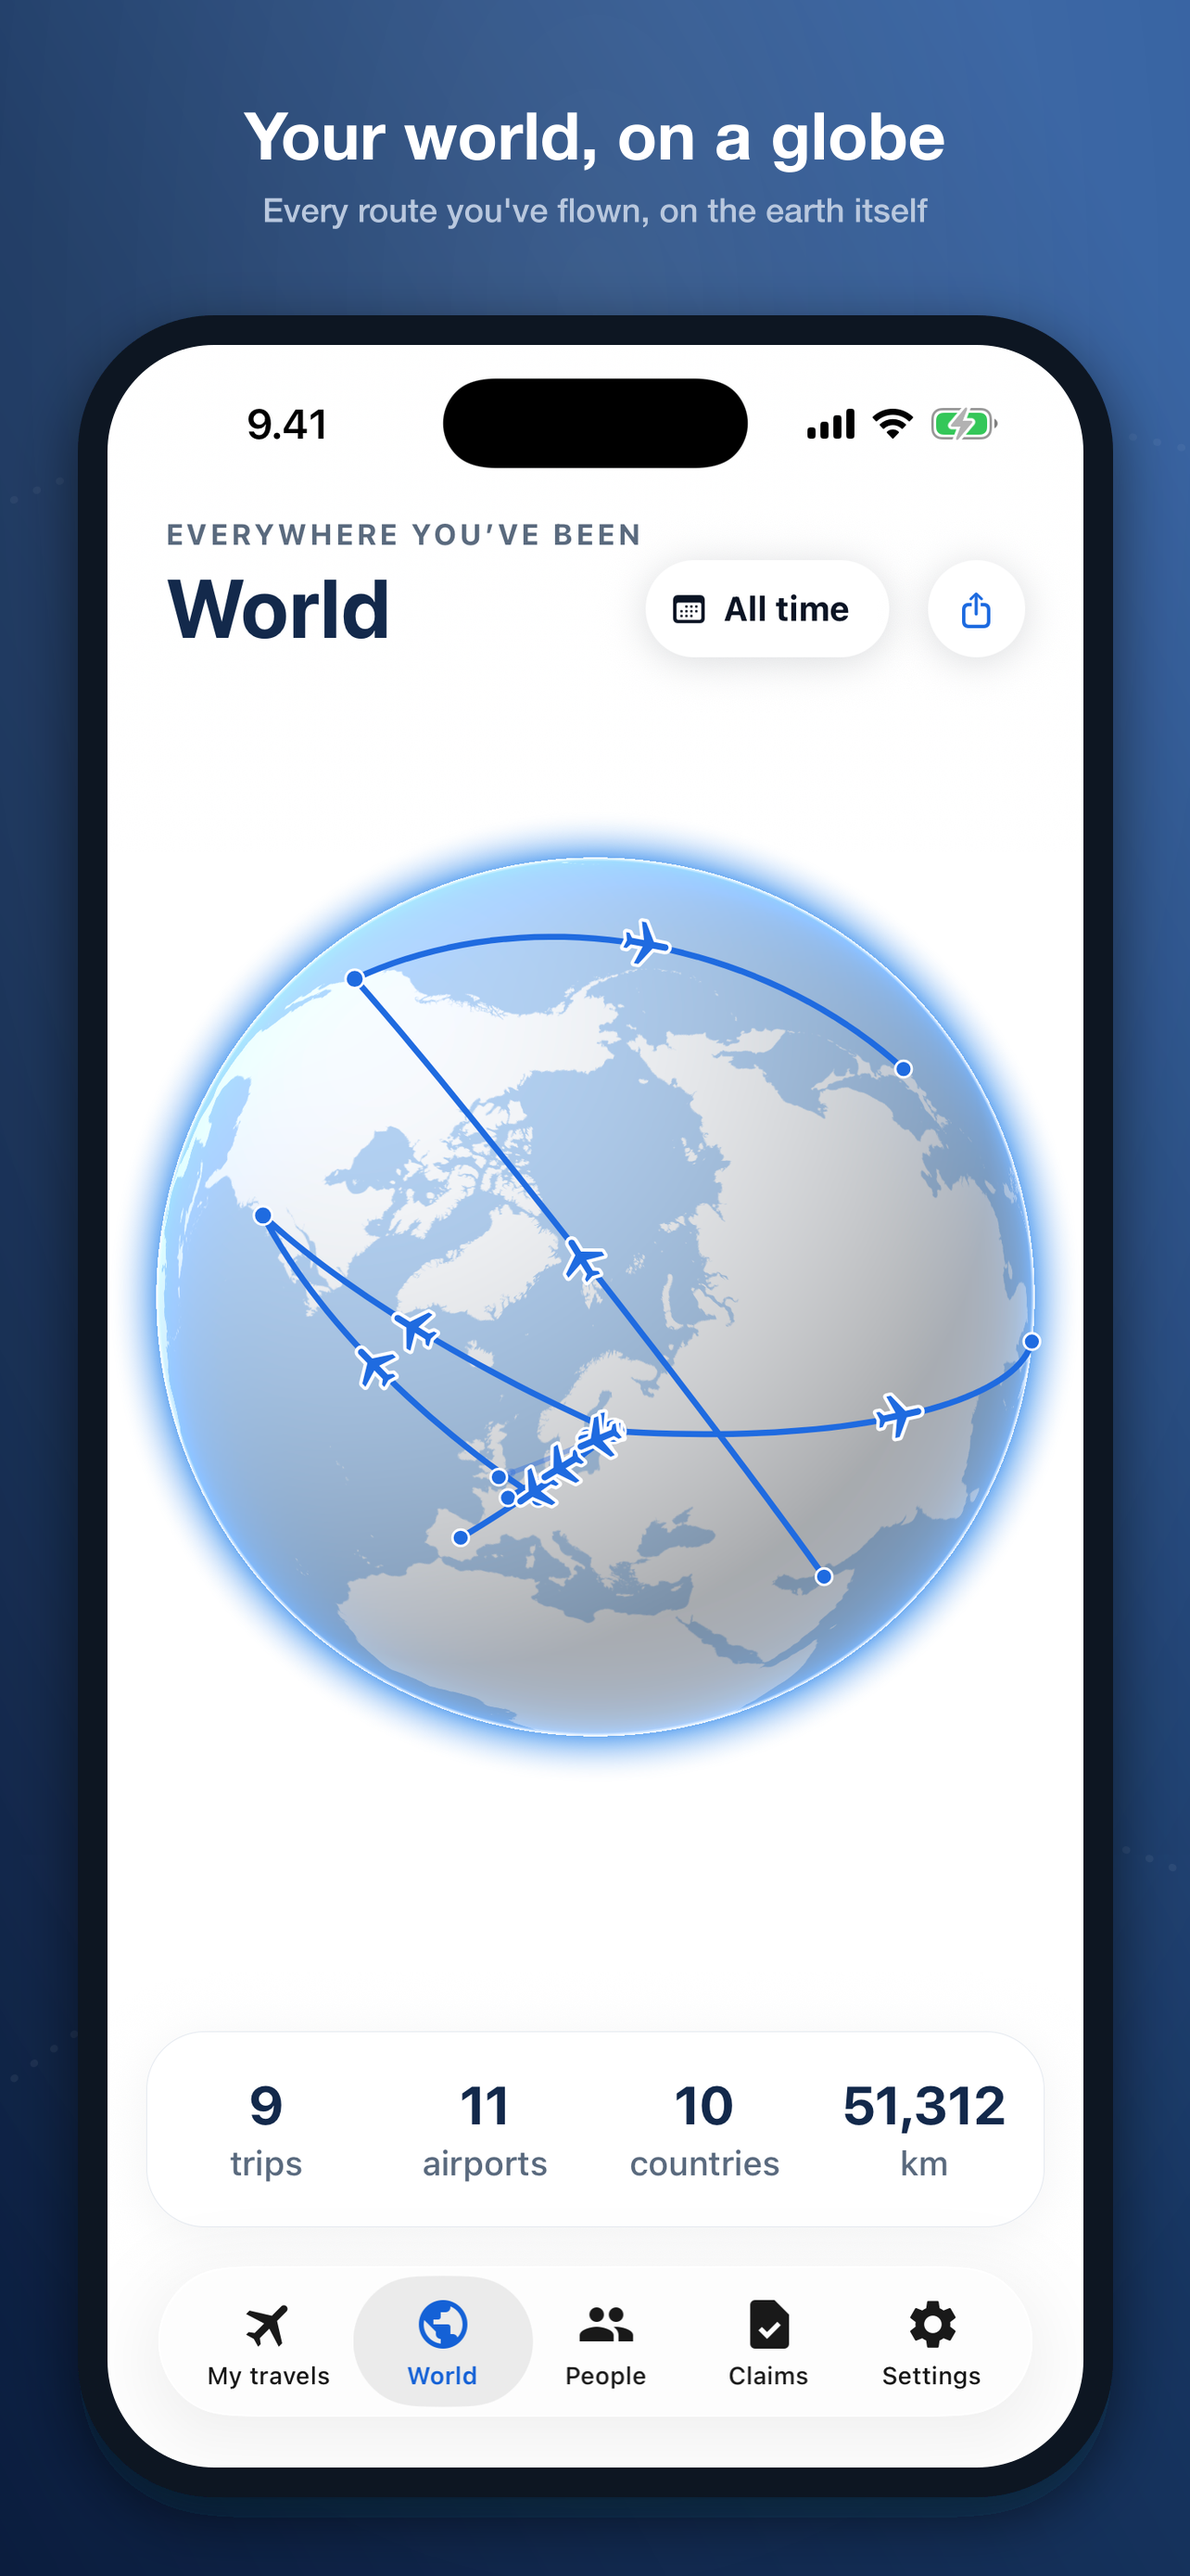
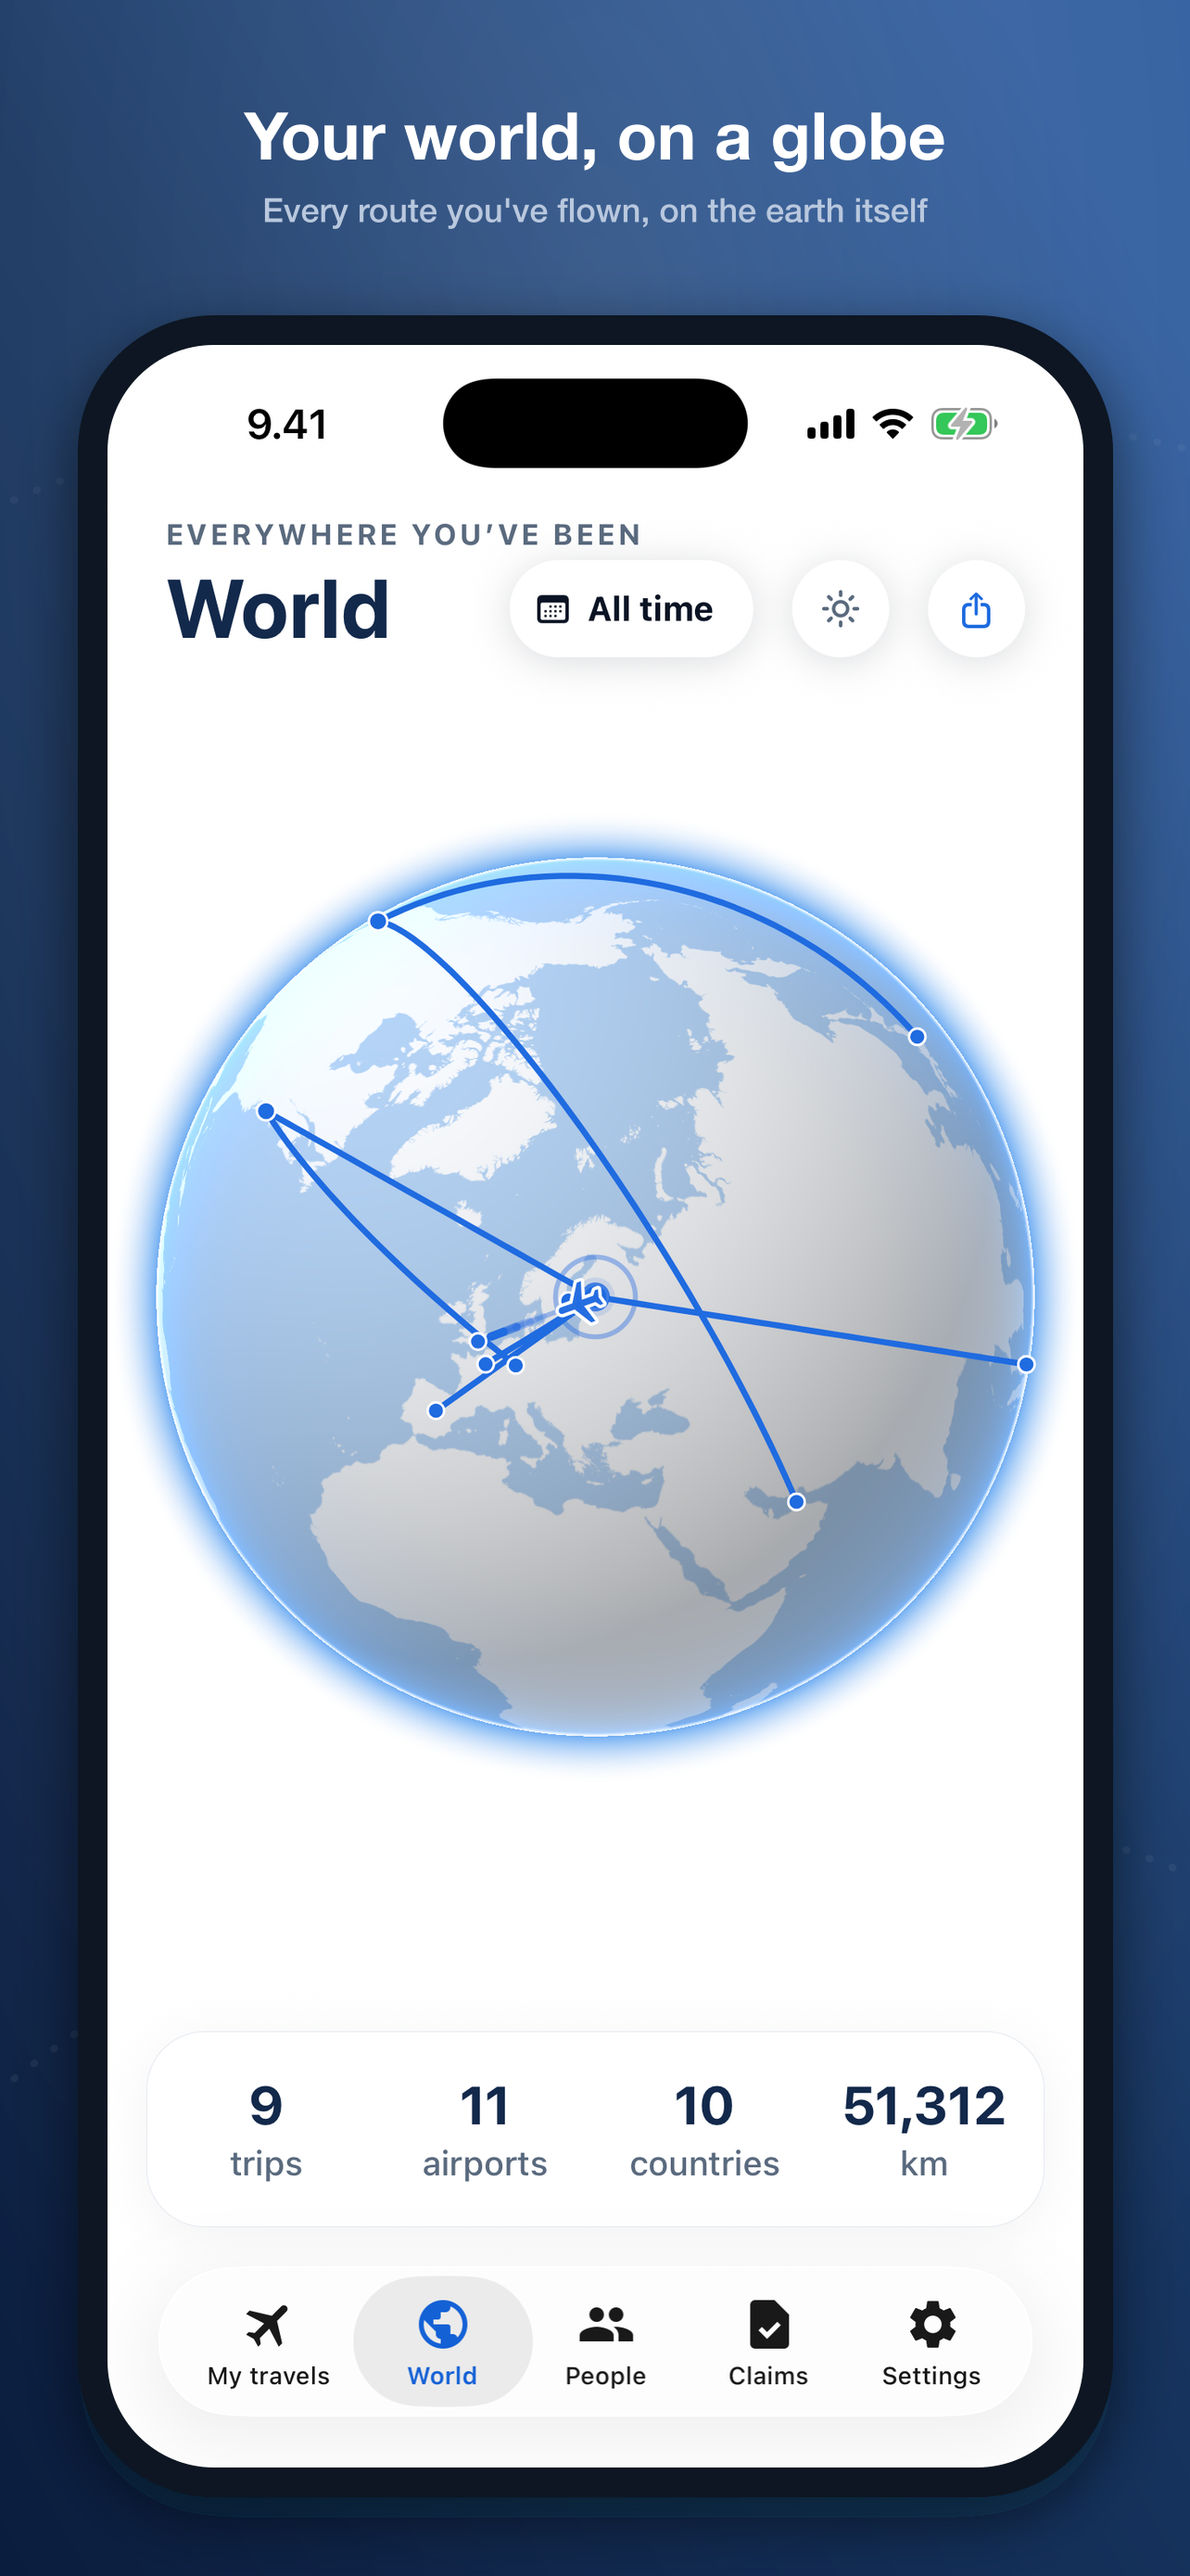
Release state 1.0.38: App Review submitted, Play production live, World panel reshot
Physical iPhone 15 Pro and Pixel 9a checks, native and candidate gates,
store World screenshot from the release builds (studio light), and the
phone-unlock recipes learned this session.

diff --git a/docs/release-state.md b/docs/release-state.md
@@ -2,6 +2,27 @@
 
 Shared release log for Codex and Claude. Read before a release and prepend dated observations afterwards. Query EAS and both stores before acting; this file records observations, not automatically refreshed status. Follow [release-workflow.md](release-workflow.md).
 
+## 2026-09-18/19 — 1.0.38 (sun-lit globe, moving plane, share poster heat) submitted for App Review and live on Play production
+
+Release commit `c597c41` (bump) with store notes in `edaa71f`; the release code is `6613a1b` and earlier (globe day/night `9292d00`, moving plane `758a64f`, share poster heat `51a7bc0`, person-page globe `2fb2b2d`, overnight lookup fix `31b38e2`). Version `1.0.38`, iOS build `55`, Android versionCode `52`. The builds, uploads, App Store version, What's New, reviewer notes and hosting deploy were done in the evening session; this session (from 18:51 UTC) finished the checks and the store promotion.
+
+| Item | Observed result |
+| --- | --- |
+| Backend | `release:deploy-backend` re-run this session: production `limitless-oyster-269` and development deployed, 60 client functions on both (carries the `providerFetch`/`flightNormalize` position change and the overnight-lookup fix). `release:preflight`: tsc, 5 backend-contract tests, Jest **80 suites / 907 tests** passed; Jest's known "did not exit" hang was killed and the final production inventory step run separately (passed) |
+| Hosting | Deployed in the evening session from the bump tree: `https://flyright.expo.app` serves `entry-65444867652b7ab279450816ae8544de.js` = local `dist/` export; the exported `/api/app-version` function contains the 1.0.38 notes; bundle has the production Convex URL and `pk_live`, no development URL. Route verified: `latest` 1.0.37 on both stores (App Store approved 1.0.37 at 18:21 UTC), notes served for versions the stores carry |
+| iOS EAS build | `0c09e69b-dc34-45b1-b2d6-62e5fc6425ef` FINISHED (1.0.38 / 55, production); submission `13b7be19-868b-4362-819c-d7eea8f9697f` FINISHED. Ad hoc preview `6624ffc0-a932-4e2e-9099-c3e10d210b62` (1.0.38 / 55, environment=production) for the iPhone |
+| Android EAS build | `fa333344-a4d1-4390-995d-be92c9705441` FINISHED (1.0.38 / 52, production); submission `fadb5aaf-77e9-4151-b214-529a06472496` FINISHED to Play internal (track verified: `completed`, `["52"]`). Preview APK `7664dc6d-82ae-418a-bd0d-835e88ef07ba` (1.0.38 / 52, environment=production) for the Pixel |
+| ASC | Version `6ae4d0d0-336b-4820-8869-c2f599ee1651` (AFTER_APPROVAL), build `2f8713aa-3f37-4c42-8099-f750045d4fae` (55) VALID and attached, whatsNew on localization `dc86c9c5`, review notes (`store/apple/review-notes-1.0.38.txt`) on detail `098a7107` with the demo account preserved. Screenshot: iPhone 6.5" panel 4 (World) replaced in place (`bc9c4fc9`, COMPLETE), order kept; iPad set carried over (no World panel in it). reviewSubmission `2aa88112-5c1c-4663-8327-705ad9531dad` created with the version item and submitted at 20:01:34 UTC → **WAITING_FOR_REVIEW**, version WAITING_FOR_REVIEW (AFTER_APPROVAL) |
+| Play | Listing images regenerated and uploaded by `scripts/upload-play-assets.mjs` (edit committed) after the EAS upload had finished. versionCode **52** promoted to **production** as "1.0.38 (52)", `status: completed`, en-US notes from `store/google/release-notes-1.0.38.txt` (481 chars); verified on the track: `production completed 1.0.38 (52) ["52"]`, internal still `["52"]`. Store review/propagation can still delay public availability; `/api/app-version` will announce 1.0.38 only once the public listings serve it |
+| Screenshots | World panel reshot from the 1.0.38 **Release** builds: iPhone on the FlyRight Shots sim (iPhone 17 Pro / iOS 26.5, seeded anonymously with the nine demo trips), Pixel on the Pixel_9a AVD (local release APK, same seed). Captured with the globe's **fixed studio light** (the sun button switched off) so every route is legible; at 22:00 EEST the default sun-lit globe puts Europe in night and hides most routes. The sun-lit alternative is in `~/Downloads/flyright-1.0.38-release/store-world-alternatives/`. Panels 1–3, 5, 6 unchanged (UI not touched by this release). The Pixel raw's status bar had the app's ongoing travel-day notification icon painted over (demo mode cannot hide a foreground-service icon) |
+| Native regressions | `release:devices --mode native` **passed** on iOS Debug 1.0.38 (55) (iPhone 17 Pro sim) and Android Debug 1.0.38 (52) (`emulator-5554`, new `FlyRight_Dev` AVD); report `.maestro/out/release/2026-09-18T19-41-01.570Z/`. A first run failed because the iPhone 17 Pro sim came up in a fresh state (onboarding screen) |
+| Candidate checks | `release:devices --mode candidate --account-email appreview@getflyright.com --journey-id release-retained-photo-20260914` **passed on both** (iOS 50 s, Android 47 s): iOS Release 1.0.38 (55) built locally from the release tree and installed over the Debug app on the iPhone 17 Pro / iOS 26.5 sim; Android local release APK 1.0.38 (52) installed over the Debug app on the new `FlyRight_Dev` AVD (`emulator-5554`). Both hosts came up signed out (the iPhone 17 Pro sim was fresh, the AVD is new), so the reviewer was signed in through the Clerk password path first (password read from ASC into a mode-600 scratch file, deleted afterwards; iOS via Maestro, Android via Maestro taps + adb typing). Production bundle checks, two cold starts, account, People, the retained trip and its photo (both `retained-trip-photo.png` reviewed: the app-icon JPEG renders), World. Report `.maestro/out/release/2026-09-18T19-56-49.021Z/`; copies in `~/Downloads/flyright-1.0.38-release/candidate/`. The Pixel_9a AVD (`emulator-5556`) was not used for the candidate this time: it holds the anonymous nine-trip demo seed (used for the Play World panel) and signing the reviewer in there would have migrated demo trips into the reviewer account |
+| Physical iPhone 15 Pro | iOS 26.0.1, **USB** (`wired`/`connected`), unlocked by the user. Ad hoc 1.0.38 (55) already installed (evening session) over the user's data, user's own account (32 trips). `devicectl` cold starts `flyright://settings` (PID 6045) and `flyright://world` (PID 6099) alive after 35 s; crash logs 8 before / 8 after (all 2026-09-14), none new. XCTest `testAllTabsAcrossTwoColdStarts` **passed** (137.9 s): My travels, World (day/night globe, beacon, plane on the upcoming HEL→DOH), People, Claims, Settings on both cold starts, all ten screenshots reviewed (`~/Downloads/flyright-1.0.38-release/physical-iphone/`). Two earlier attempts failed to initialise UI testing: the phone auto-locked after 5 min and the Face ID "allow UI automation" prompt was cancelled; the third run passed. The suite's demo-capture tests (`testCaptureDemoFrames` etc.) failed afterwards for lack of env vars and another auto-lock — not release checks. Evidence `.maestro/out/physical-ios-2026-09-18T18-57-31Z/` |
+| Physical Pixel 9a | `tegu`, Android 17, wireless adb `192.168.0.55:45079`. 1.0.36 (50, sideloaded) → **1.0.38 (52)** preview APK installed with `adb install -r`, data kept. APK: non-debuggable, production Convex, `pk_live`. `release-core` **signed-out passed** (42 s): two cold starts, My travels, Settings, People, World (globe) — screenshots reviewed (`~/Downloads/flyright-1.0.38-release/physical-pixel/`). My travels is empty before and after: the phone has been signed out and empty since the user's reinstall on 2026-09-16 (same as the 1.0.36 evidence), so no trip-retention evidence exists on this phone. Dropbox crash/ANR 0 → 0; exit-info only Maestro's FORCE STOPs; logcat no FATAL/ANR. PIN typed with adb key events (user-supplied, not stored); `screen_off_timeout` 30 s → 30 min for the run → restored; `svc power stayon` restored to false. Evidence `.maestro/out/physical-android-2026-09-18T19-02-27Z/` |
+| Local dev apps | iPhone 17 Pro sim (`F8E2E504`) Debug 1.0.38 (55) reinstalled after the candidate check (fresh state, onboarding skipped, anonymous); `FlyRight_Dev` AVD (`emulator-5554`) Debug 1.0.38 (52) reinstalled (anonymous; the reviewer session from the release APK does not carry over the reinstall). The Shots sim keeps Release 1.0.38 (55) with the demo seed and `globe-daylight=off`; the Pixel_9a AVD keeps release 1.0.38 (52) with the demo seed and studio light. Metro was started with `--clear` for the dev apps |
+
+**Recipes learned.** (1) Pixel 9a unlock: `input text <PIN>` was unreliable this time; `KEYCODE_WAKEUP` → swipe `540 1500 → 540 300` → one `input keyevent KEYCODE_<digit>` per digit → `KEYCODE_ENTER` worked every time. `svc power stayon true` only applies on charger power — set `screen_off_timeout` (and restore it) when the phone is on battery. (2) iPhone XCTest on USB: the runner needs the "allow UI automation" Face ID/passcode prompt approved on the phone; "Authentication cancelled. UI canceled by system" (LocalAuthentication −4) means the prompt was not answered. The phone's 5-minute Auto-Lock ends a session; ask for Auto-Lock = Never up front. (3) `expo run:android` with a physical phone on adb picks the PHONE as install target (it tried to push the debug APK onto the Pixel, harmless signature mismatch): install the built debug APK with `adb -s <emulator> install -r` instead. (4) `Pixel_9a_2` AVD has a 6 GB data partition that was full; the `FlyRight_Release_*` AVDs lived under `/private/tmp` and were gone after a reboot. New `FlyRight_Dev` AVD (`~/.android/avd`, Pixel 9a config copied from `Pixel_9a`, `disk.dataPartition.size=16G`, `.ini` target fixed to android-37.0). (5) On Android release builds `run-as` is unavailable, so the globe lighting can't be flipped through the kv-store: tap the header button by its accessibility label (`Hide day and night` / `Show day and night`); on the iOS sim write `globe-daylight=off` into `Documents/SQLite/ExpoSQLiteStorage` (table `storage`) while the app is terminated. (6) Clerk's password field on the Android emulator loses focus after the Maestro tap: tap it again with `adb shell input tap 540 996`, then type one character per `input text` call.
+
 ## 2026-09-18 (evening) — Website: phone fold fix + captures with the flight in the air (hosting only, no store release)
 
 | Item | Observed result |

diff --git a/docs/release-checks.md b/docs/release-checks.md
@@ -59,8 +59,8 @@ Use the existing `.maestro/` feature flows for changed areas: Wallet/PDF/photo i
 
 Passcodes are supplied by the user per session (chat), used inline, and never written to the repo, memory files, logs or the macOS Keychain (the Keychain write was refused by the permission classifier on 2026-09-17). Clean `~/.maestro/tests/<date>/` after any flow that typed a code.
 
-- **Pixel 9a (works, verified 2026-09-17):** `adb shell input keyevent KEYCODE_WAKEUP`, then `adb shell input swipe 540 1500 540 300 200` (a swipe that starts near the bottom edge is read as the home gesture and does nothing), then `adb shell input text <PIN>` and `adb shell input keyevent 66`. Confirm with `dumpsys window | grep mDreamingLockscreen` = false. Run `svc power stayon true` for the session and restore it to false afterwards.
-- **iPhone 15 Pro (partial):** `xcodebuild test` cannot open a session on a locked phone ("Ensure the device is unlocked"), and once the phone sleeps its wireless CoreDevice tunnel drops. The session therefore has to START with the phone unlocked and on Wi-Fi; the practical setting for a test session is Auto-Lock = Never. For a lock that happens mid-run, the XCTest helper's `unlockIfNeeded()` (home, swipe the lock screen up, type the digits on Springboard's passcode pad) runs at the start of `testAllTabsAcrossTwoColdStarts` when `TEST_RUNNER_FLYRIGHT_PASSCODE=<code>` is set on the xcodebuild command; `testUnlockFromLockScreen` locks with the side button and proves the path. Tried on a locked, awake phone on 2026-09-17: the runner installs and starts, then iOS fails it with "The test runner failed to initialize for UI testing (Timed out while enabling automation mode)" — UI Automation cannot be enabled while the device is locked, so no test code runs. The helper therefore only helps when the phone locks after a session has begun; a run must still start unlocked.
+- **Pixel 9a (works, verified 2026-09-17):** `adb shell input keyevent KEYCODE_WAKEUP`, then `adb shell input swipe 540 1500 540 300 200` (a swipe that starts near the bottom edge is read as the home gesture and does nothing), then `adb shell input text <PIN>` and `adb shell input keyevent 66`. Confirm with `dumpsys window | grep mDreamingLockscreen` = false. Run `svc power stayon true` for the session and restore it to false afterwards. On 2026-09-18 `input text <PIN>` unlocked only once in four tries; one `input keyevent KEYCODE_<digit>` per digit followed by `KEYCODE_ENTER` worked every time. `svc power stayon true` only applies on charger power: on battery, raise `settings put system screen_off_timeout` for the run and restore the original value (30000).
+- **iPhone 15 Pro (partial):** On iOS 26 the first XCTest run of a session shows a Face ID / passcode prompt on the phone to allow UI automation; if it is not approved the runner fails with "Authentication cancelled. UI canceled by system" (LocalAuthentication −4) — ask the user to watch the phone and approve it. The phone's Auto-Lock (5 min) ends a session mid-suite; ask for Auto-Lock = Never before starting. `xcodebuild test` cannot open a session on a locked phone ("Ensure the device is unlocked"), and once the phone sleeps its wireless CoreDevice tunnel drops. The session therefore has to START with the phone unlocked and on Wi-Fi; the practical setting for a test session is Auto-Lock = Never. For a lock that happens mid-run, the XCTest helper's `unlockIfNeeded()` (home, swipe the lock screen up, type the digits on Springboard's passcode pad) runs at the start of `testAllTabsAcrossTwoColdStarts` when `TEST_RUNNER_FLYRIGHT_PASSCODE=<code>` is set on the xcodebuild command; `testUnlockFromLockScreen` locks with the side button and proves the path. Tried on a locked, awake phone on 2026-09-17: the runner installs and starts, then iOS fails it with "The test runner failed to initialize for UI testing (Timed out while enabling automation mode)" — UI Automation cannot be enabled while the device is locked, so no test code runs. The helper therefore only helps when the phone locks after a session has begun; a run must still start unlocked.
 
 ## Physical devices and evidence
 
